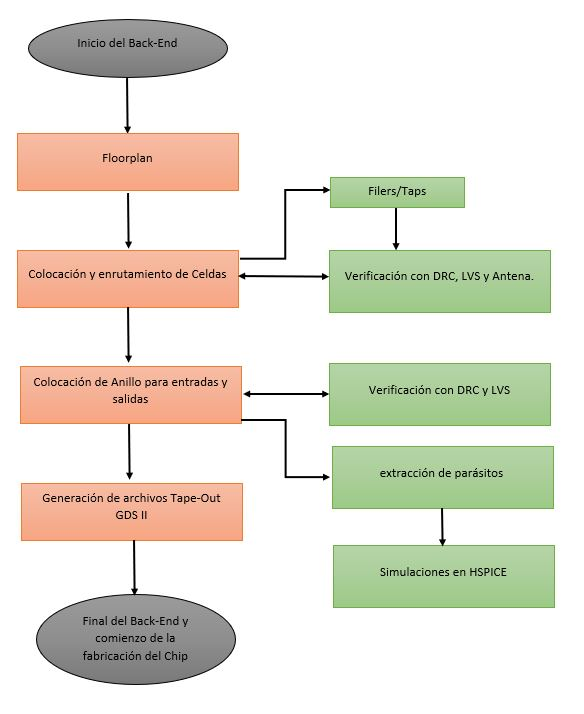
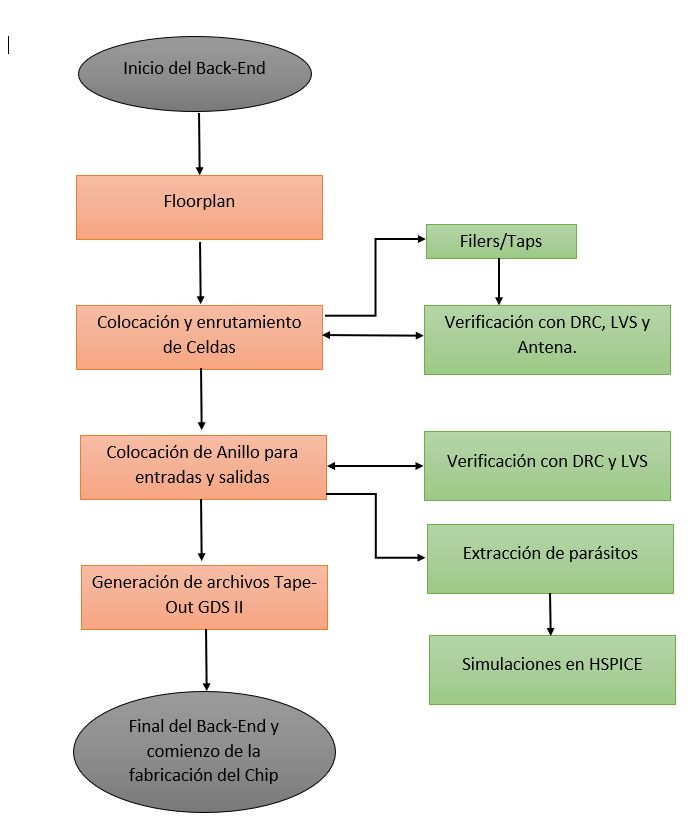
Updates from Overleaf

Changed region(s): [[0.0, 0.0, 0.9863, 1.0]]

diff --git a/e-antecedentes.tex b/e-antecedentes.tex
@@ -1,9 +1,20 @@
 
 
-Este proyecto se puedo realizar gracias al Ingeniero Carlos Esquit, que fue asignado en el 2009 como el director de carrera del departamento de Ingeniería de Electrónica y Mecatronica. Esta persona fue que comenzó con esta iniciativa por el 2013.
+Este proyecto se puedo realizar gracias al Ingeniero Carlos Esquit, que fue asignado en el 2009 como el director de carrera del departamento de Ingeniería de Electrónica y Mecatrónica. Esta persona fue que comenzó con esta iniciativa por el 2013.
 
-Todo comenzó cuando comenzaron a dar el curso de VLSI en la Universidad del Valle de Guatemala, en el que paso a ser Nanoelectronica 1, en donde se aprendieron todos los conceptos necesarios para realizar esta parte del proyecto. 
+Todo comenzó en el 2013 cuando comenzaron a dar el curso de VLSI en la Universidad del Valle de Guatemala, en el que paso a ser Nanoelectronica 1, en donde se aprendieron todos los conceptos necesarios para realizar esta parte del proyecto. 
 
-Cabe resaltar que todo esto se pudo realizar gracias al acuerdo que se hizo con Synopsys, para que la mayoría de las partes involucradas se pudieran realizar desde la casa, por los problemas de la pandemia que dieron lugar a comienzos del 2020.
 
-En el 2019 un grupo de estudiantes de la Universidad logro comenzar a realizar un proyecto de un chip a escala nanométrica, desde que se comenzó con esta iniciativa otro grupo de estudiantes en el 2020 comenzaron a realizar retoques en este proceso de poder realizar un chip a nanoescala.  \cite{hoover2010bio} \cite{park2014design}
+En el 2020 y el 2021 no se tuvo que parar en el proceso de la investigación sobre como realizar el flujo de diseño para realizar un chip a nanoescala. Con Splashtop se pudo ingresar a las computadoras de la Universidad, en las cuales se podría acceder al equipo que puede ser utilizado para el flujo de diseño y gracias a synopsys se pudieron instalar los software necesarios para la realización del flujo de diseño.
+
+Este flujo de diseño ha ido evolucionando conforme a los cursos de Nanoelectronica 1 y 2, que dieron lugar en la reforma curricular realizada en el 2015, en la Universidad del Valle por Carlos Esquit. Con esto se pudo ir evaluando conceptos claves que nos servirían en un futuro, para la realización del flujo de diseño.
+
+
+En el 2019 un grupo de estudiantes de la Universidad logro comenzar a realizar un proyecto de un chip a escala nanométrica, desde que se comenzó con esta iniciativa otro grupo de estudiantes en el 2020 comenzaron a realizar retoques en este proceso de poder realizar un chip a nanoescala.
+Los estudiantes que comenzaron con esta iniciativa fueron Luis Najera y Steven Rubio, estos individuos comenzaron a realizar un estructura de lo que es el diseño de flujo, el cual es un proceso que se divide en 2 categorías: En diseño lógico y el diseño físico. Mas que todo dejaron un esquema planteado para lograr elaborar ambas partes del diseño, dejando las herramientas necesarias para la producción del mismo que se tienen que tomar de synopsys, generaron guías de instalación y un uso poco ambiguo del uso de las herramientas de synopsys.
+Para el trabajo que se realizo en el 2020 fue un proceso de varios alumnos que realizaron varias etapas de diseño con el fin de dejar una plantilla casi terminada, para poder correr cualquier programa y que pasara el flujo de diseño sin ningún inconveniente, lastimosamente la pandemia que realizo el COVID-19, se pudo realizar solamente un circuito pequeño, pero sin comprobar cosas del diseño físico y sin el conocimiento completo de cada para del flujo del diseño, pero con una gran parte de la finalización del proyecto teniendo cada parte definida y que herramientas de software son las necesarias para realizar cualquier proceso del flujo de diseño.
+
+
+
+
+\cite{hoover2010bio} \cite{park2014design}

diff --git a/i-marco_teorico.tex b/i-marco_teorico.tex
@@ -32,7 +32,7 @@ El flujo de diseño nos muestra los pasos requeridos para poder realizar una ser
 
  \begin{figure}[t]
     \centering
-    \includegraphics[width=0.45\textwidth]{figuras/Font.JPG}
+    \includegraphics[width=0.57\textwidth]{figuras/Font.JPG}
     \caption{Diagrama del Front-End}
     \label{fig:mesh1}
 \end{figure}
@@ -59,7 +59,7 @@ Esta parte va mas inclinada a la implementación del circuito en físico. Esta t
  \cite{charls} 
 \begin{figure}[t]
     \centering
-    \includegraphics[width=0.45\textwidth]{figuras/Back.JPG}
+    \includegraphics[width=0.57\textwidth]{figuras/Back.JPG}
     \caption{Diagrama del Back-End}
     \label{fig:mesh1}
 \end{figure}
@@ -148,7 +148,7 @@ La base de datos FSDB, logra almacenar los resultados de la simulación.
 Al utilizar la informacion que proporcionan estas bases de datos, verdi tiene unas herramientas de análisis que resultan ser muy útiles dependiendo de la aplicación que se quiera dar, estas son: Análisis de estructura, comportamiento, evaluación y Mensajes.
 
 
-  \subsection{Extracción de parásitos}
+ \subsection*{Extracción de parásitos}
 
 La extracción de parásitos se puede realizar después de haber hecho las pruebas pertinentes en el flujo del diseño, este pertenece a la parte del Back-End y se puede realizar correctamente después de realizar el lvs y el drc, que son parte del diseño del layout después con HSPICE se busca el archivo generado con parásitos para ver como se comporta la simulación, en donde también se utiliza el starRc. Todo esto es con el fin de garantizar que el diseño VLSI es factible y que las capacitancias parásitas no va a afectar el circuito.
 
@@ -157,14 +157,14 @@ Esto sucede al jugar con los transistores que generan lo que se llaman capacitan
 El fin de la extracción de parásitos es la representación  de los efectos electromagnéticos que los cables y las difusiones puedan generar al momento de correr la simulación, en componentes como la capacitancia, resistencia e inductancia.
  \cite{charls} 
 
-  \subsection{StarRC}
+  \subsection*{StarRC}
 
 Esta herramienta se considera la solución para la extracción de parásitos. Esta herramienta amplia los beneficios de rendimiento , en donde se basa en mejorar la arquitectura y hace que el proceso sea mas efectivo. Este programa logra eliminar la necesidad de lo que es la escritura parásita en un netlist y este mismo logra ahorrar el espacio del disco. Mas que todo se especializa en optimizar el proceso reduciendo las capacitancias parásitas que puedan llegar a afectar el comportamiento deseado de un circuito.
 
  \cite{StarRc} 
 
 
-\subsection{HSPICE}
+\subsection*{HSPICE}
 
 Hspice es un herramienta de synopsys que permite realizar las simulaciones de un programa generado (.spf), en donde viene de la mano con Custom Wave View. El fin de este programa es ver una simulación y lograr ver el comportamiento del circuito. 
 Este se considera uno de los simuladores mas potentes, ya que muestra gran precisión en los datos y la mayoría de empresas de semiconductores dependen de esta herramienta.

diff --git a/f-justificacion.tex b/f-justificacion.tex
@@ -1,12 +1,15 @@
-hgjhjjhvjvhgvjhgvjhg
-\begin{table}[h]
-\begin{tabular}{|l|l|l|l|l|}
-\hline
-12       & $3.2$  & $3.43$    & 23    & 13      \\ \hline
-aasdasdd & asd & ssdssa & ssdas & asdasda \\ \hline
-         &     &        &       &         \\ \hline
-         &     &        &       &         \\ \hline
-\end{tabular}
-\caption[Pruebas preliminares]{Pruebas preliminares. Este cuadro corresponde a las pruebas realizadas durante blabla} 
-\label{cuadro:pritabla}
-\end{table}
+
+La fabricación de un chip a nanoescala representa grandes avances para la Universidad de Guatemala y para el mismo país, ya que esta sera la primera vez que una Universidad de Guatemala pueda ser capaz del diseño de un chip con una tecnología de 180nm. Con el flujo de diseño se pretende diseñar y lograr mandar a fabricar chips que sean diseñados por medio de un programa de descriptor de hardware y que pueda ser utilizado para un proyecto de mayor escala que revolucione la universidad y que sea un incentivo para el desarrollo en Guatemala sobre la investigación en nanoelectrónica.
+
+Este trabajo, es un parte muy importante en el flujo de diseño. Este trabajo es importante para la continuación de las partes posteriores, ya que se sintetizara por medio de las herramientas de synopsys y con la simulación y la comparación de los diseños digitales que serán el original y el sintetizado jugaran un importante papel en las otras fases de diseño, por la complejidad que pueda representar el circuito en las otras fases. A la hora de sintetizar un circuito se espera que se logre comportar de la manera deseada y este puede ayudar a la parte anterior para ver si se encuentra un error en la parte del diseño del mismo circuito.
+
+En la otra fase de diseño enfocada en la parte de simulación de la extracción de parásitos, es una parte que depende de todas las fases anteriores, ya que este mirara las simulaciones, en donde mostrara las respuestas mas reales posibles por las herramientas de synopsys del circuito que se pretende realizar, por lo tanto esta etapa sera la que indicara el correcto funcionamiento del chip antes de ser enviado a fabricar.
+En si, lo que consta el trabajo es realizar las simulaciones de la primera etapa de diseño y la ultima de la extracción de parásitos, para poder corroborar que el chip que se mande a fabricar sea un chip, que no tenga problemas al probarlo de forma física.
+
+
+
+
+
+
+
+

diff --git a/g-objetivos.tex b/g-objetivos.tex
@@ -1,11 +1,23 @@
 \subsection*{Objetivo General}
 
-Poder realizar las comprobaciones necesarias de la síntesis lógica y la extracción de parásitos del modelado que se piensa implementar en el chip. Con el fin de que estas partes sean suficientemente buenas para poder seguir realizando los procesos debidos
+Realizar las comprobaciones necesarias de la síntesis lógica y la extracción de parásitos del modelado que se piensa implementar en el chip.
+Con el fin de poder comprobar la parte de la síntesis lógica, en donde se realizara simulaciones y verificaciones de rigor para el correcto funcionamiento del mismo  y poder comprobar que el circuito no se vea afectado por los parásitos.
+Poder tener una comunicación eficiente con los demás grupos de trabajo y poder lograr como grupo solventar los errores de forma rapida.
+
+
+
+
+
 
 \subsection*{Objetivos Específicos}
 \begin{itemize}
-\item Verificación de la síntesis lógica. 
-\item Simulaciones de la síntesis lógica.
-\item Verificación de la extracción de parásitos.
-\item Simulaciones de la extracción de parásitos.
+
+\item Tener una comunicaciones efectiva con los demás grupos de trabajo para la solución rapida de errores.
+\item Proporcionar el circuito, ya sintetizado para que no haya errores del diseño lógico y que pase al diseño físico.
+\item Poder realizar una verificación de los parásitos y poder emular el comportamiento de los parásitos dentro del circuito con gráficos. 
+\item Lograr ver el correcto funcionamiento del circuito para mandarlo a fabricar.
+\item Brindar los archivos necesarios para que puedan pasar a otras fases de diseño.
+\item Verificar que los análisis de la extracción de parásitos sea correcta con las herramientas de synopsys. 
+\item Lograr el entendimiento básico de las otras fases de diseño, para poder apoyar en las otras fases de diseño.
+
 \end{itemize}

diff --git a/p-metodologia.tex b/p-metodologia.tex
@@ -1,0 +1,12 @@
+
+
+Para la metodología de la parte del diseño lógico, este consta del diseño de varios flujos utilizando la herramienta de VCS con el fin de testear y luego ser validados por el mismo programa.
+
+\subsection*{Análisis}
+VCS es una herramienta que proporciona un parte importante en el flujo de diseño del proyecto, en donde para poder realizar una simulación exitosa se consulto con la documentación de la herramienta proporcionada por synopsys.
+La documentación de este viene en un parte de synopsys llamada SolvNet, la cual presenta una documentación extensa, en donde se puede aprender sobre la herramienta y detallada, en la cual Cual también aparecen los programas como: Verdi, StarRc y HSpice, estas serán necesarias al realizar las simulaciones y las verificaciones necesarias, en donde SolvNet, sera de gran ayuda para poder realizar las simulaciones y verificaciones necesarias.
+Estas herramientas se van actualizando cada año, en donde las mismas presentan mejoras a su sistema para poder evaluar con mayor detenimiento las simulaciones, en donde cada vez van a ver mas aspectos a tomar en cuenta.
+
+\subsection*{Pruebas}
+Las pruebas van a ser realizadas por medio de los programas anteriormente mencionados, en donde cada uno de estos va a jugar un papel importante y con los resultados de las pruebas, se documentara para poder visualizar los cambios antes de la simulación con los resultados obtenidos después, para lograr ver una mejora y poder interpretar los datos de una mejor manera, en donde no solo actualizaremos los conocimientos de las herramientas, sino que también para entender mejor el funcionamiento de las mismas. 
+Se buscara visualizar como funcionaria el circuito, ya con la implementación del chip en físico, para no enviar a fabricar un chip que realmente no funcione.

diff --git a/z-main.tex b/z-main.tex
@@ -145,31 +145,49 @@
 \pagenumbering{arabic}
 \setcounter{page}{1}
 
+\newpage
 \section*{Resumen}
+\addcontentsline{toc}{chapter}{Resumen}
 \defaultparformat{b-resumen}
 
+\newpage
 \section*{Antecedentes}
+\addcontentsline{toc}{chapter}{Antecedentes}
 \defaultparformat{e-antecedentes}
 
+\newpage
 \section*{Justificación}
+\addcontentsline{toc}{chapter}{Justificación}
 \defaultparformat{f-justificacion}
 
+\newpage
 \section*{Objetivos}
+\addcontentsline{toc}{chapter}{Objetivos}
 \defaultparformat{g-objetivos}
 
+\newpage
 \section*{Marco teórico}
+\addcontentsline{toc}{chapter}{Marco Teórico}
 \defaultparformat{i-marco_teorico}
 
+\newpage
 \section*{Metodología}
+\addcontentsline{toc}{chapter}{Metodología}
 \defaultparformat{p-metodologia}
 
+\newpage
 \section*{Cronograma de actividades}
+\addcontentsline{toc}{chapter}{Cronograma de Actividades}
 \defaultparformat{q-cronograma}
 
+\newpage
 \section*{Índice preliminar}
+\addcontentsline{toc}{chapter}{Índice preliminar}
 \defaultparformat{r-indice_preliminar}
 
+\newpage
 \section*{Referencias}
+\addcontentsline{toc}{chapter}{Referencias}
 \printbibliography[heading=none]
 
 

diff --git a/r-indice_preliminar.tex b/r-indice_preliminar.tex
@@ -1,0 +1,43 @@
+
+\tableofcontents
+
+
+\section{Prefacio}
+\section{Lista de figuras}
+\section{Resumen}
+\section{Abstract}
+\section{Introducción}
+\section{Antecedentes}
+\section{Justificación}
+\section{Objetivos}
+\subsection{Objetivo General}
+\subsection{Objetivos específicos}
+\section{Alcance}
+\section{Marco teórico}
+\subsection{Diseño de VLSI}
+\subsubsection{Flujo de diseño}
+\subsubsubsection{Front-End}
+\subsubsubsection{Back-End}
+\subsubsection{Lenguaje Descriptor de Hardware}
+\subsection{Verilog y VHDL}
+\subsection{VCS}
+\subsubsection{Flujos de VCS}
+\subsection{Verdi}
+\subsubsection{Funciones principales}
+\subsubsection{Depuración de SystemVerilog Testbench}
+\subsubsection{Mas acerca de Verdi}
+\subsection{Extracción de parásitos}
+\subsection{StarRC}
+\subsection{HSPICE}
+\section{Metodología}
+\section{Herramientas utilizadas}
+\section{Análisis de Resultados}
+\section{Verificación de resultados}
+\section{Proceso para la verificación y para las simulaciones}
+\section{Conclusiones}
+\section{Recomendaciones}
+\section{Bibliografía}
+\section{Anexos}
+
+
+

diff --git a/0-datos_estudiante.tex b/0-datos_estudiante.tex
@@ -17,7 +17,7 @@
 % Datos del trabajo:
 % -------------------------------------------------------------------------------
 % Título completo
-\def \titulotesis {Simulaciones para la síntesis Lógica (HDL's) y para la extracción de componentes parásitos  }
+\def \titulotesis {Diseño de un circuito integrado con tecnología de 180nm usando la librería de diseño de TSMC. Verificación avanzada de la síntesis lógica y simulación avanzada del deck final que incluye resistencias y capacitancias parásitas  }
 % Año de entrega
 \def \anoentrega {2021}
 % Asesor

diff --git a/q-cronograma.tex b/q-cronograma.tex
@@ -1,0 +1,6 @@
+\begin{figure}[h]
+   \centering
+    \includegraphics[angle=90, scale=0.6, width=0.7\textwidth, height=1.12\textwidth ]{figuras/Crono.JPG}
+    \caption{Cronograma de actividades}
+    \label{fig:mesh1}
+\end{figure}
